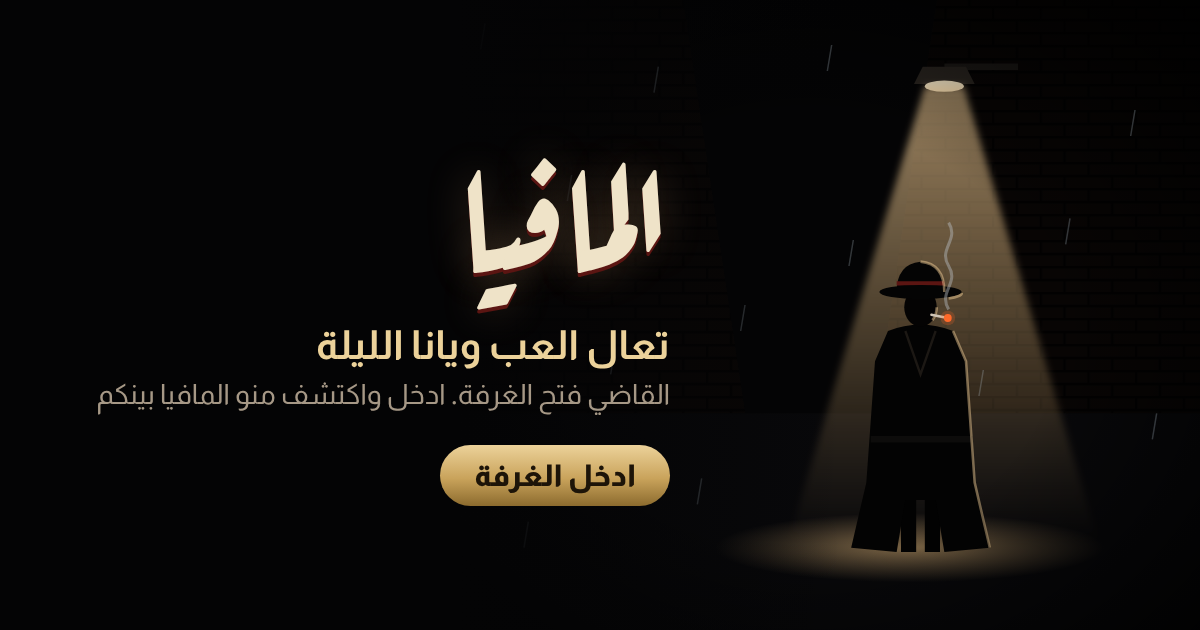
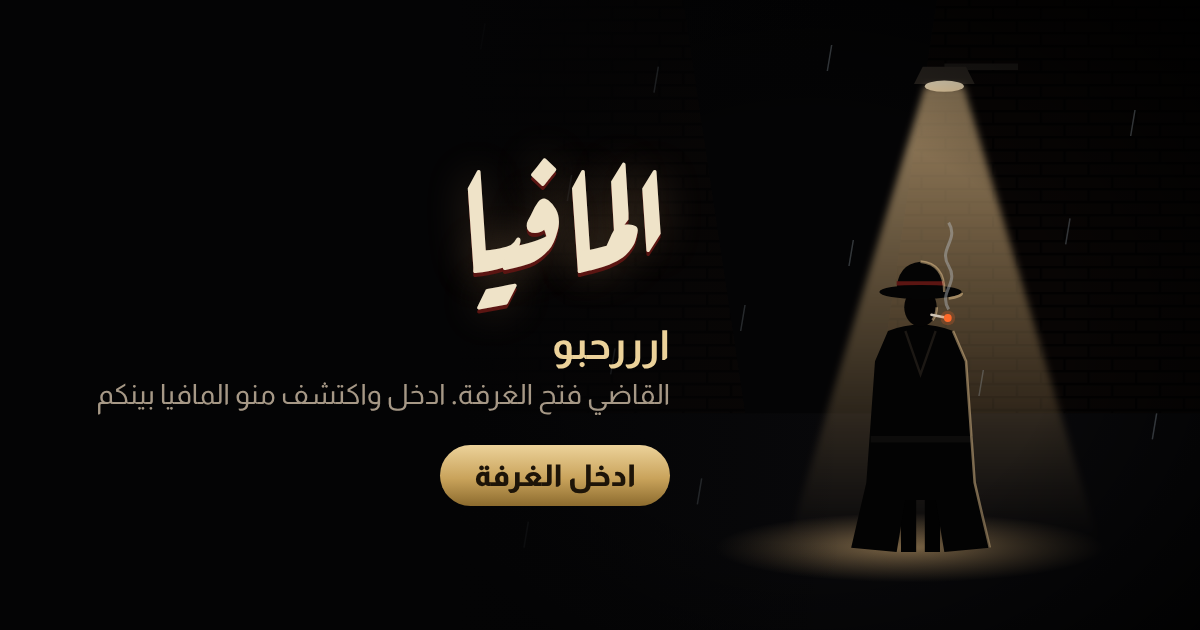
المعاينة: ارررحبو
Claude-Session: https://claude.ai/code/session_01T9YBaa4nLDQvMV1HDLN7kp

Changed region(s): [[0.2467, 0.5127, 0.555, 0.6032]]

diff --git a/public/mafia/index.html b/public/mafia/index.html
@@ -16,15 +16,15 @@
 <meta name="description" content="القاضي فتح الغرفة. ادخل واكتشف منو المافيا بينكم.">
 <meta property="og:type" content="website">
 <meta property="og:site_name" content="المافيا">
-<meta property="og:title" content="المافيا · تعال العب ويانا الليلة">
+<meta property="og:title" content="المافيا · ارررحبو">
 <meta property="og:description" content="القاضي فتح الغرفة. ادخل واكتشف منو المافيا بينكم.">
 <meta property="og:url" content="https://ha-games.habeeb3.workers.dev/mafia/">
-<meta property="og:image" content="https://ha-games.habeeb3.workers.dev/mafia/og.png">
+<meta property="og:image" content="https://ha-games.habeeb3.workers.dev/mafia/og.png?v=2">
 <meta property="og:image:width" content="1200">
 <meta property="og:image:height" content="630">
 <meta property="og:locale" content="ar_KW">
 <meta name="twitter:card" content="summary_large_image">
-<meta name="twitter:image" content="https://ha-games.habeeb3.workers.dev/mafia/og.png">
+<meta name="twitter:image" content="https://ha-games.habeeb3.workers.dev/mafia/og.png?v=2">
 <link rel="preconnect" href="https://fonts.googleapis.com">
 <link rel="preconnect" href="https://fonts.gstatic.com" crossorigin>
 <link rel="stylesheet" href="https://fonts.googleapis.com/css2?family=Almarai:wght@300;400;700;800&family=Aref+Ruqaa:wght@400;700&display=swap">
